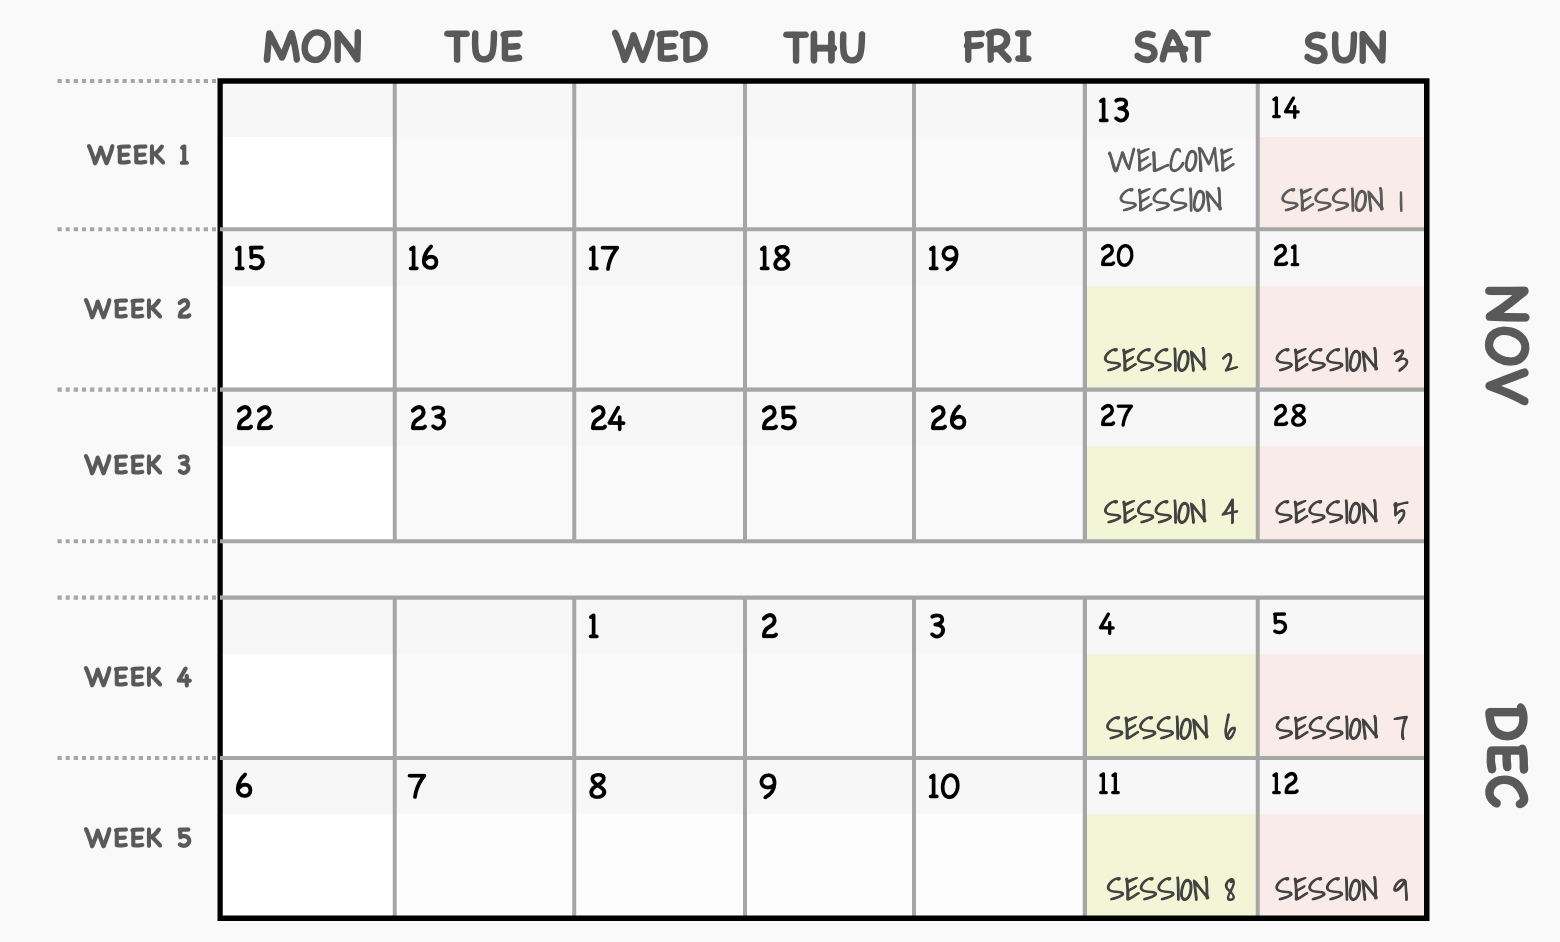
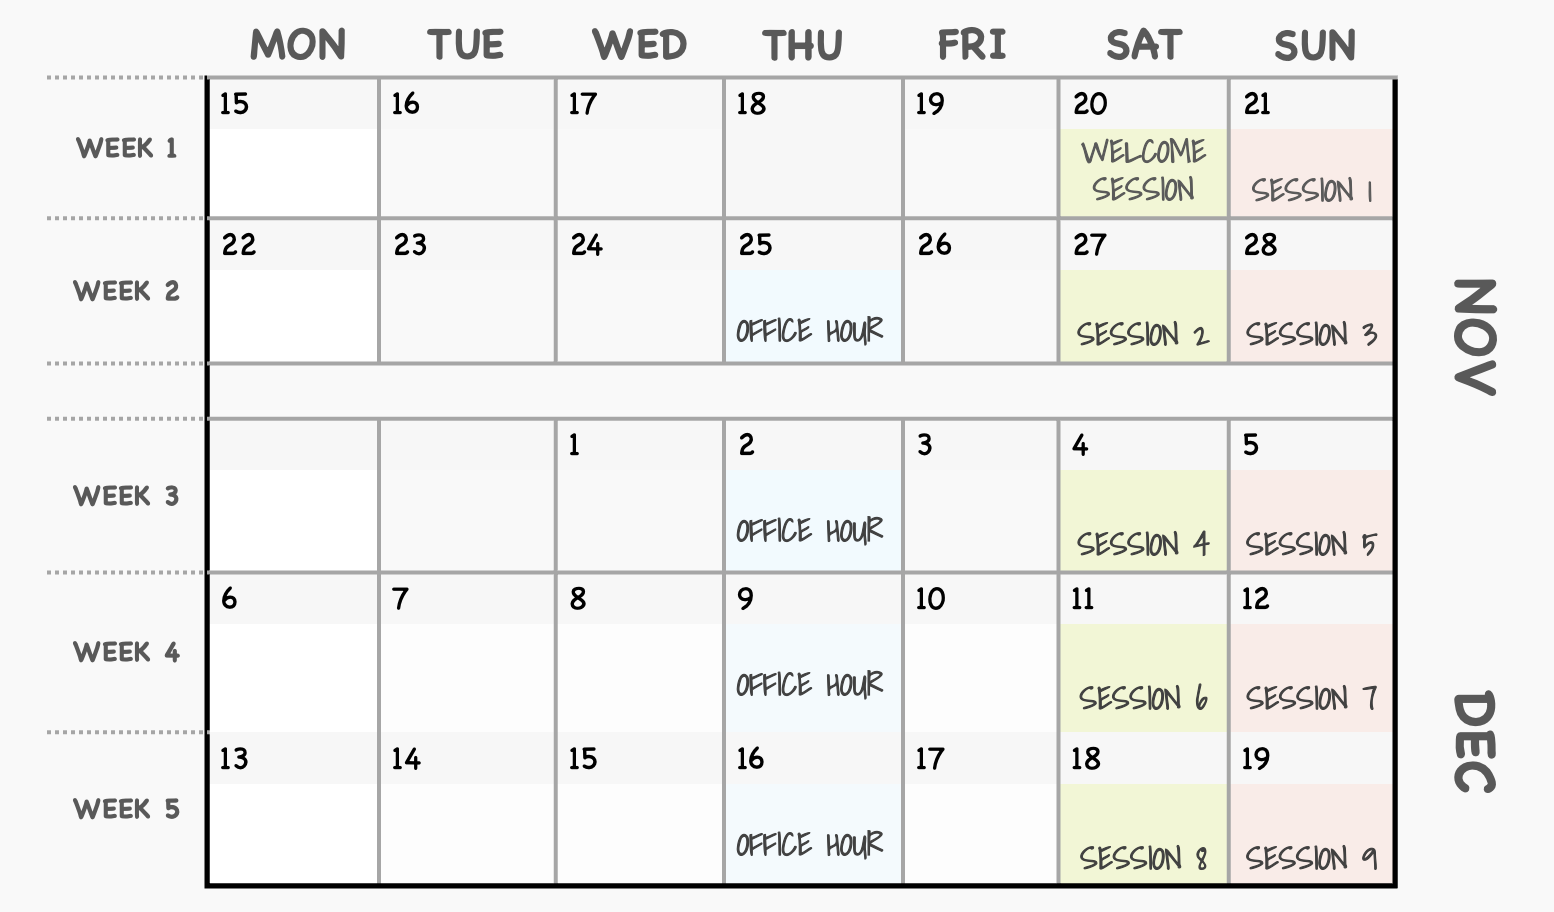
Updated PyDS c2

Changed region(s): [[0.0309, 0.0307, 0.9884, 0.9825]]

diff --git a/_catalog/cohort2/pyds.md b/_catalog/cohort2/pyds.md
@@ -1,5 +1,5 @@
 ---
-title: "pyDS" 
+title: "PyDS" 
 permalink: /catalog/cohort2/pyds/
 cycle: c2
 kind: course
@@ -86,7 +86,6 @@ We will hold two weekend sessions per week for a total of five weeks.
 
 ### What to expect
 
-![](/assets/images/end.jpeg)
 
 ![](/assets/pyds-c2.assets/session.jpeg)
 
@@ -106,7 +105,7 @@ After the session, students are expected to complete a short post-class quiz bas
 
 ### Welcome Session
 
-There will be a **Welcome Session** scheduled on `13 November 2021` at `18:30` **IST** [`8:00` **EST**].
+There will be a **Welcome Session** scheduled on `20 November 2021` at `18:30` **IST** [`8:00` **EST**].
 
 Please check your email for more information.
 
@@ -134,7 +133,6 @@ We believes in the idea of active learning and our course is designed with the e
 Please find a demo of our course style and pedagogy.
 
 <iframe frameborder="0" scrolling="no" marginheight="0" marginwidth="0"width="788.54" height="443" type="text/html" src="https://www.youtube.com/embed/JDwm7wmWGBE?autoplay=0&fs=0&iv_load_policy=3&showinfo=0&rel=0&cc_load_policy=0&start=0&end=0&origin=https://youtubeembedcode.com"></iframe>
-
 <br>
 
 ## Course Topics 
